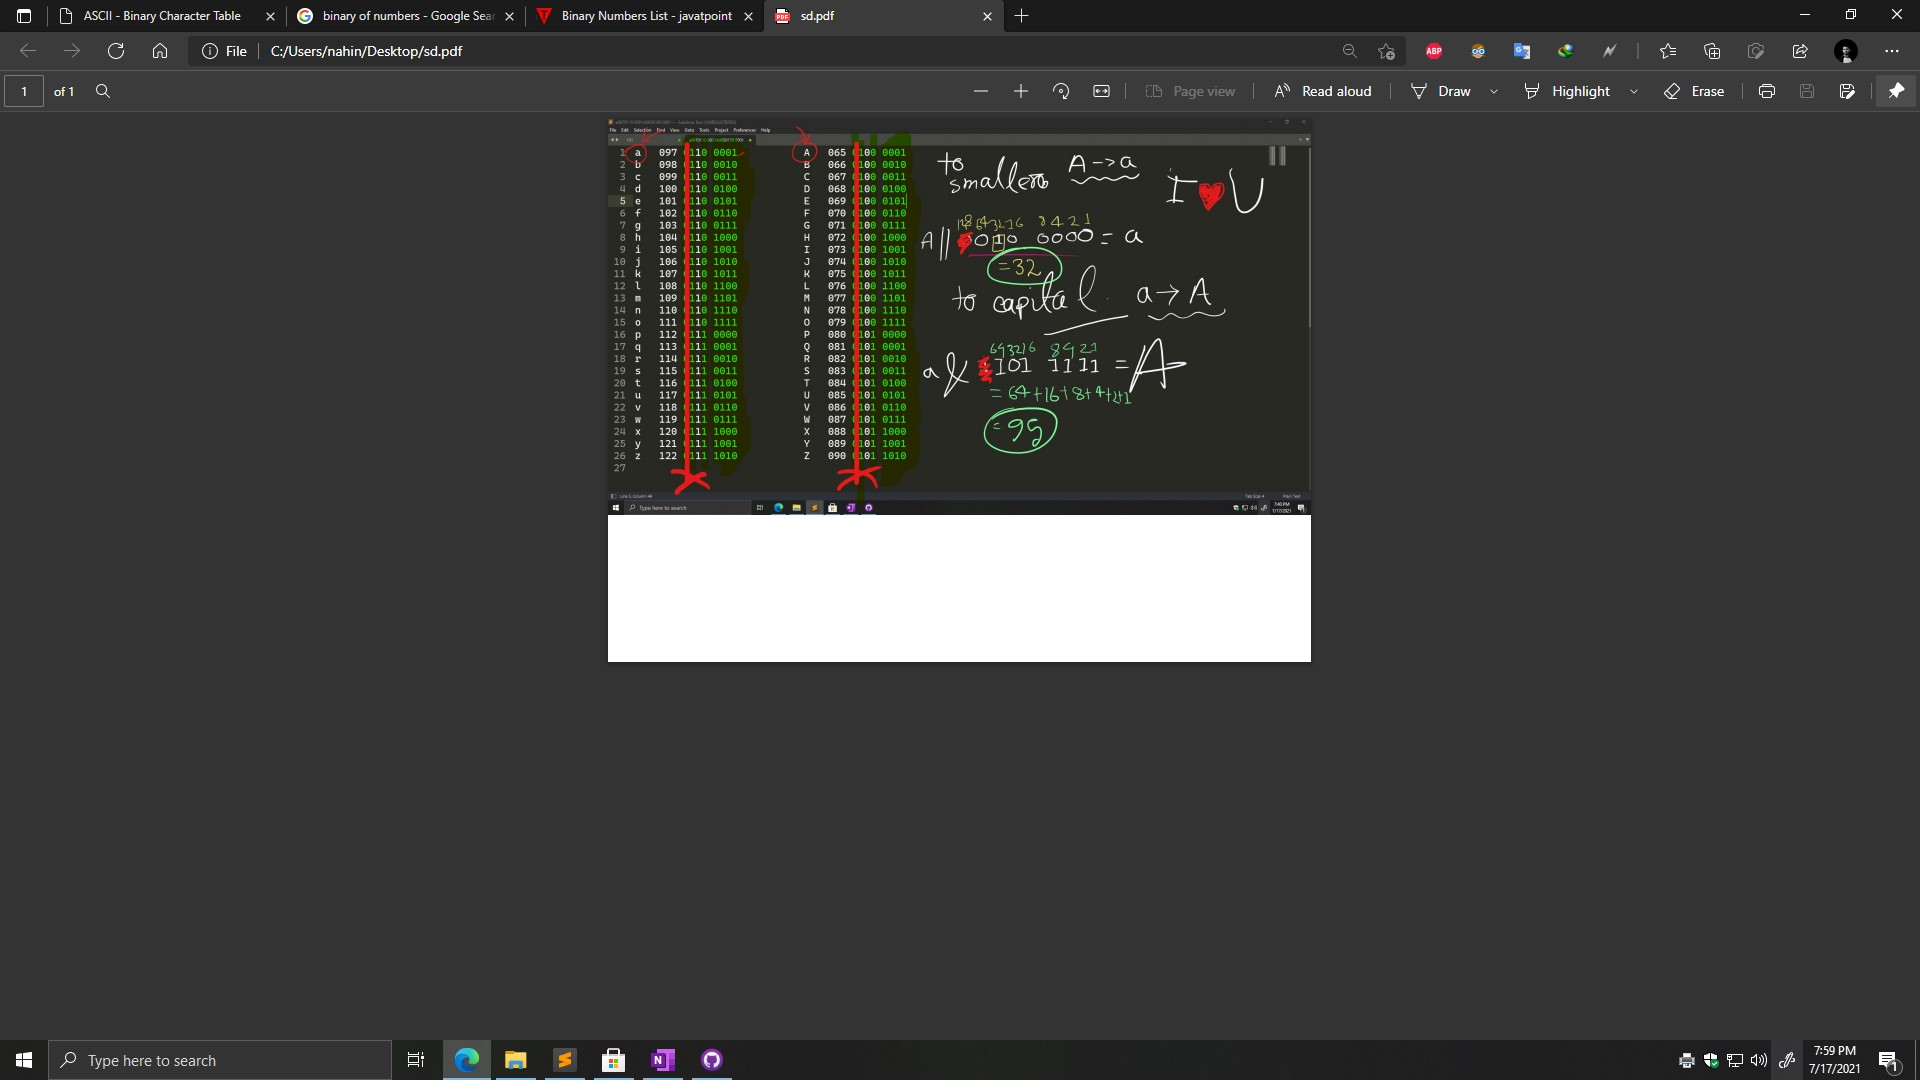
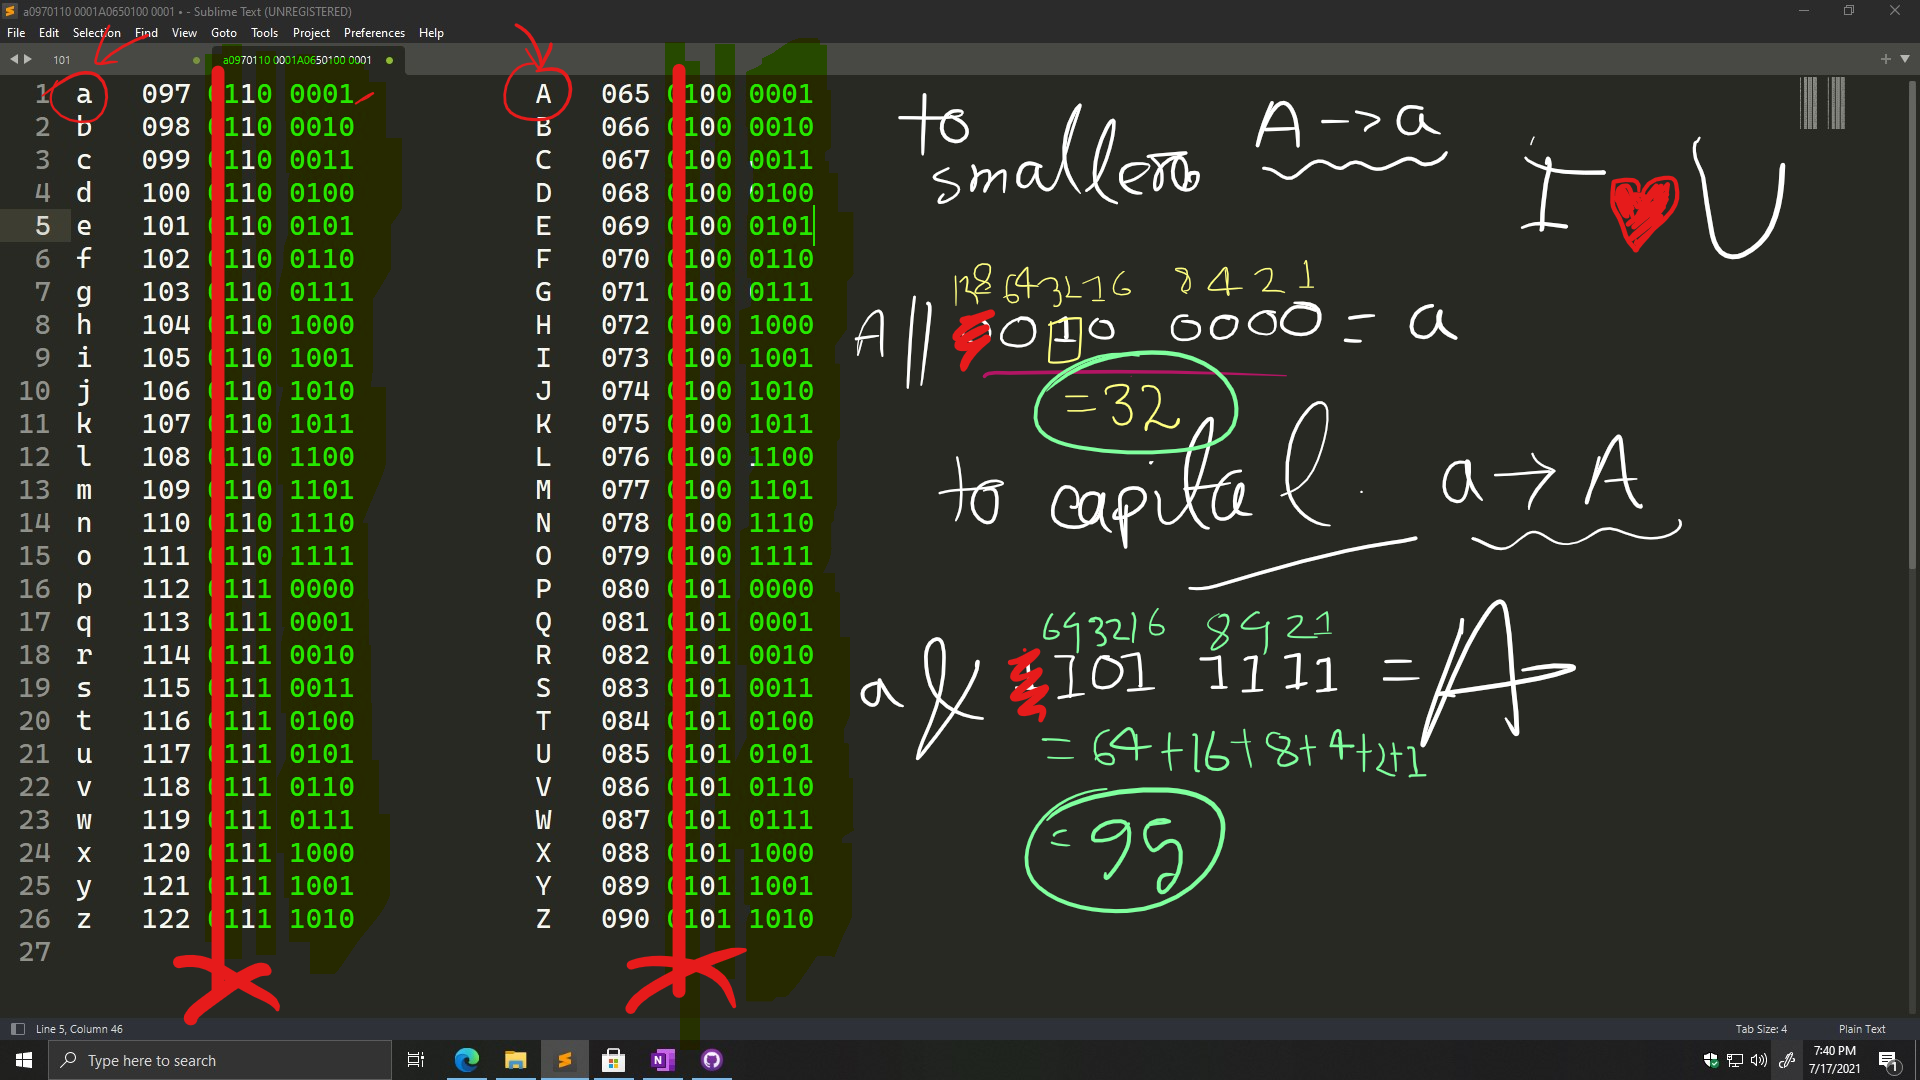
as

diff --git a/realReasonForASCII.html b/realReasonForASCII.html
@@ -6,7 +6,7 @@
 	<title>Real Reason for A==65 and a==97</title>
 </head>
 <body>
-	<img width="1920px" src="res/rrASCII/mainImageASCII.png">
+	<img width="100%" src="res/rrASCII/mainImageASCII.png">
 	<pre>
 		a	097	0110 0001			A	065	0100 0001
 		b	098	0110 0010			B	066	0100 0010
